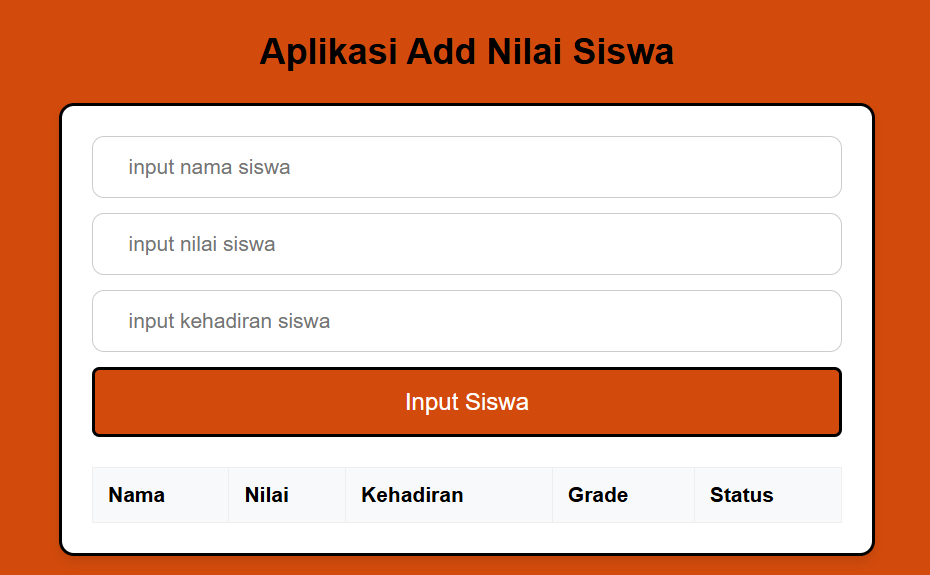
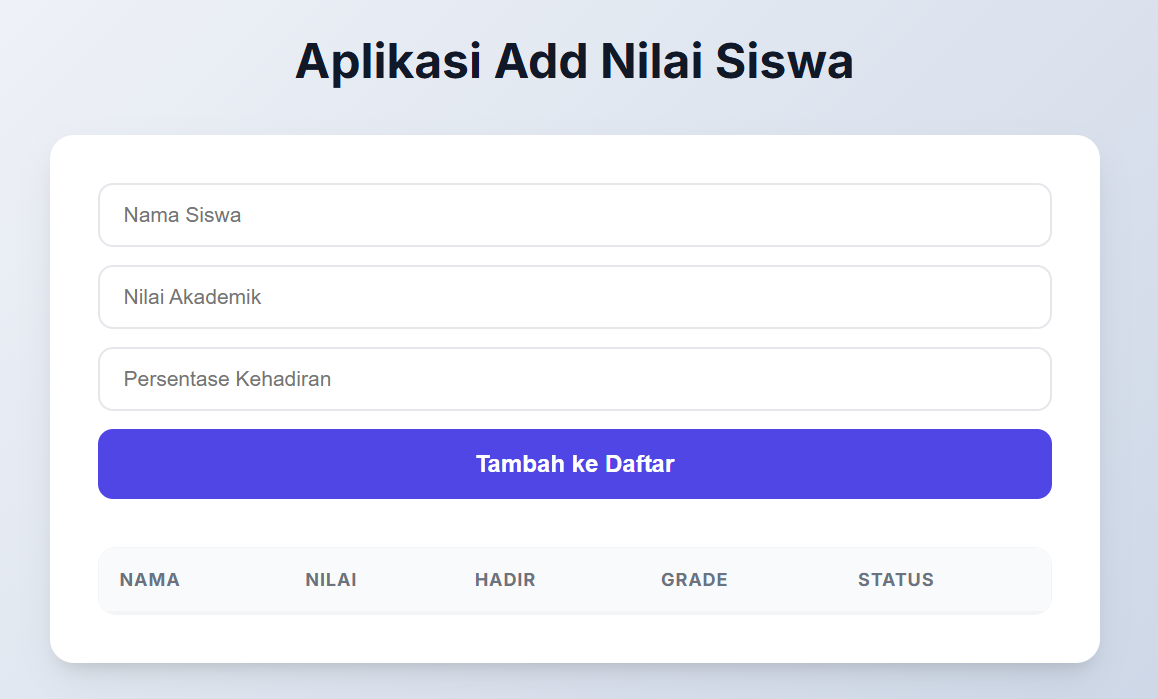
Projek Akhir

diff --git a/index1.html b/index1.html
@@ -3,7 +3,7 @@
 <head>
     <meta charset="UTF-8">
     <meta name="viewport" content="width=device-width, initial-scale=1.0">
-    <title>Grade Master Pro</title>
+    <title>Document</title>
     <link href="https://fonts.googleapis.com/css2?family=Inter:wght@400;500;600;700&display=swap" rel="stylesheet">
     <style>
         :root {
@@ -174,15 +174,15 @@
 
     <div class="container">
         <div class="title-section">
-            <h2>Manajemen Nilai</h2>
-            <p>Input data siswa untuk kalkulasi otomatis</p>
+            <h2>Aplikasi Add Nilai Siswa</h2>
+            <!-- <p>Input data siswa untuk kalkulasi otomatis</p> -->
         </div>
 
         <div class="bungkus">
             <div class="form-group">
-                <input type="text" id="nama" placeholder="Nama Lengkap Siswa">
-                <input type="number" id="nilai" placeholder="Nilai Akademik (0-100)">
-                <input type="number" id="kehadiran" placeholder="Persentase Kehadiran (%)">
+                <input type="text" id="nama" placeholder="Nama Siswa">
+                <input type="number" id="nilai" placeholder="Nilai Akademik">
+                <input type="number" id="kehadiran" placeholder="Persentase Kehadiran">
                 <button onclick="tambahSiswa()">Tambah ke Daftar</button>
             </div>
 
